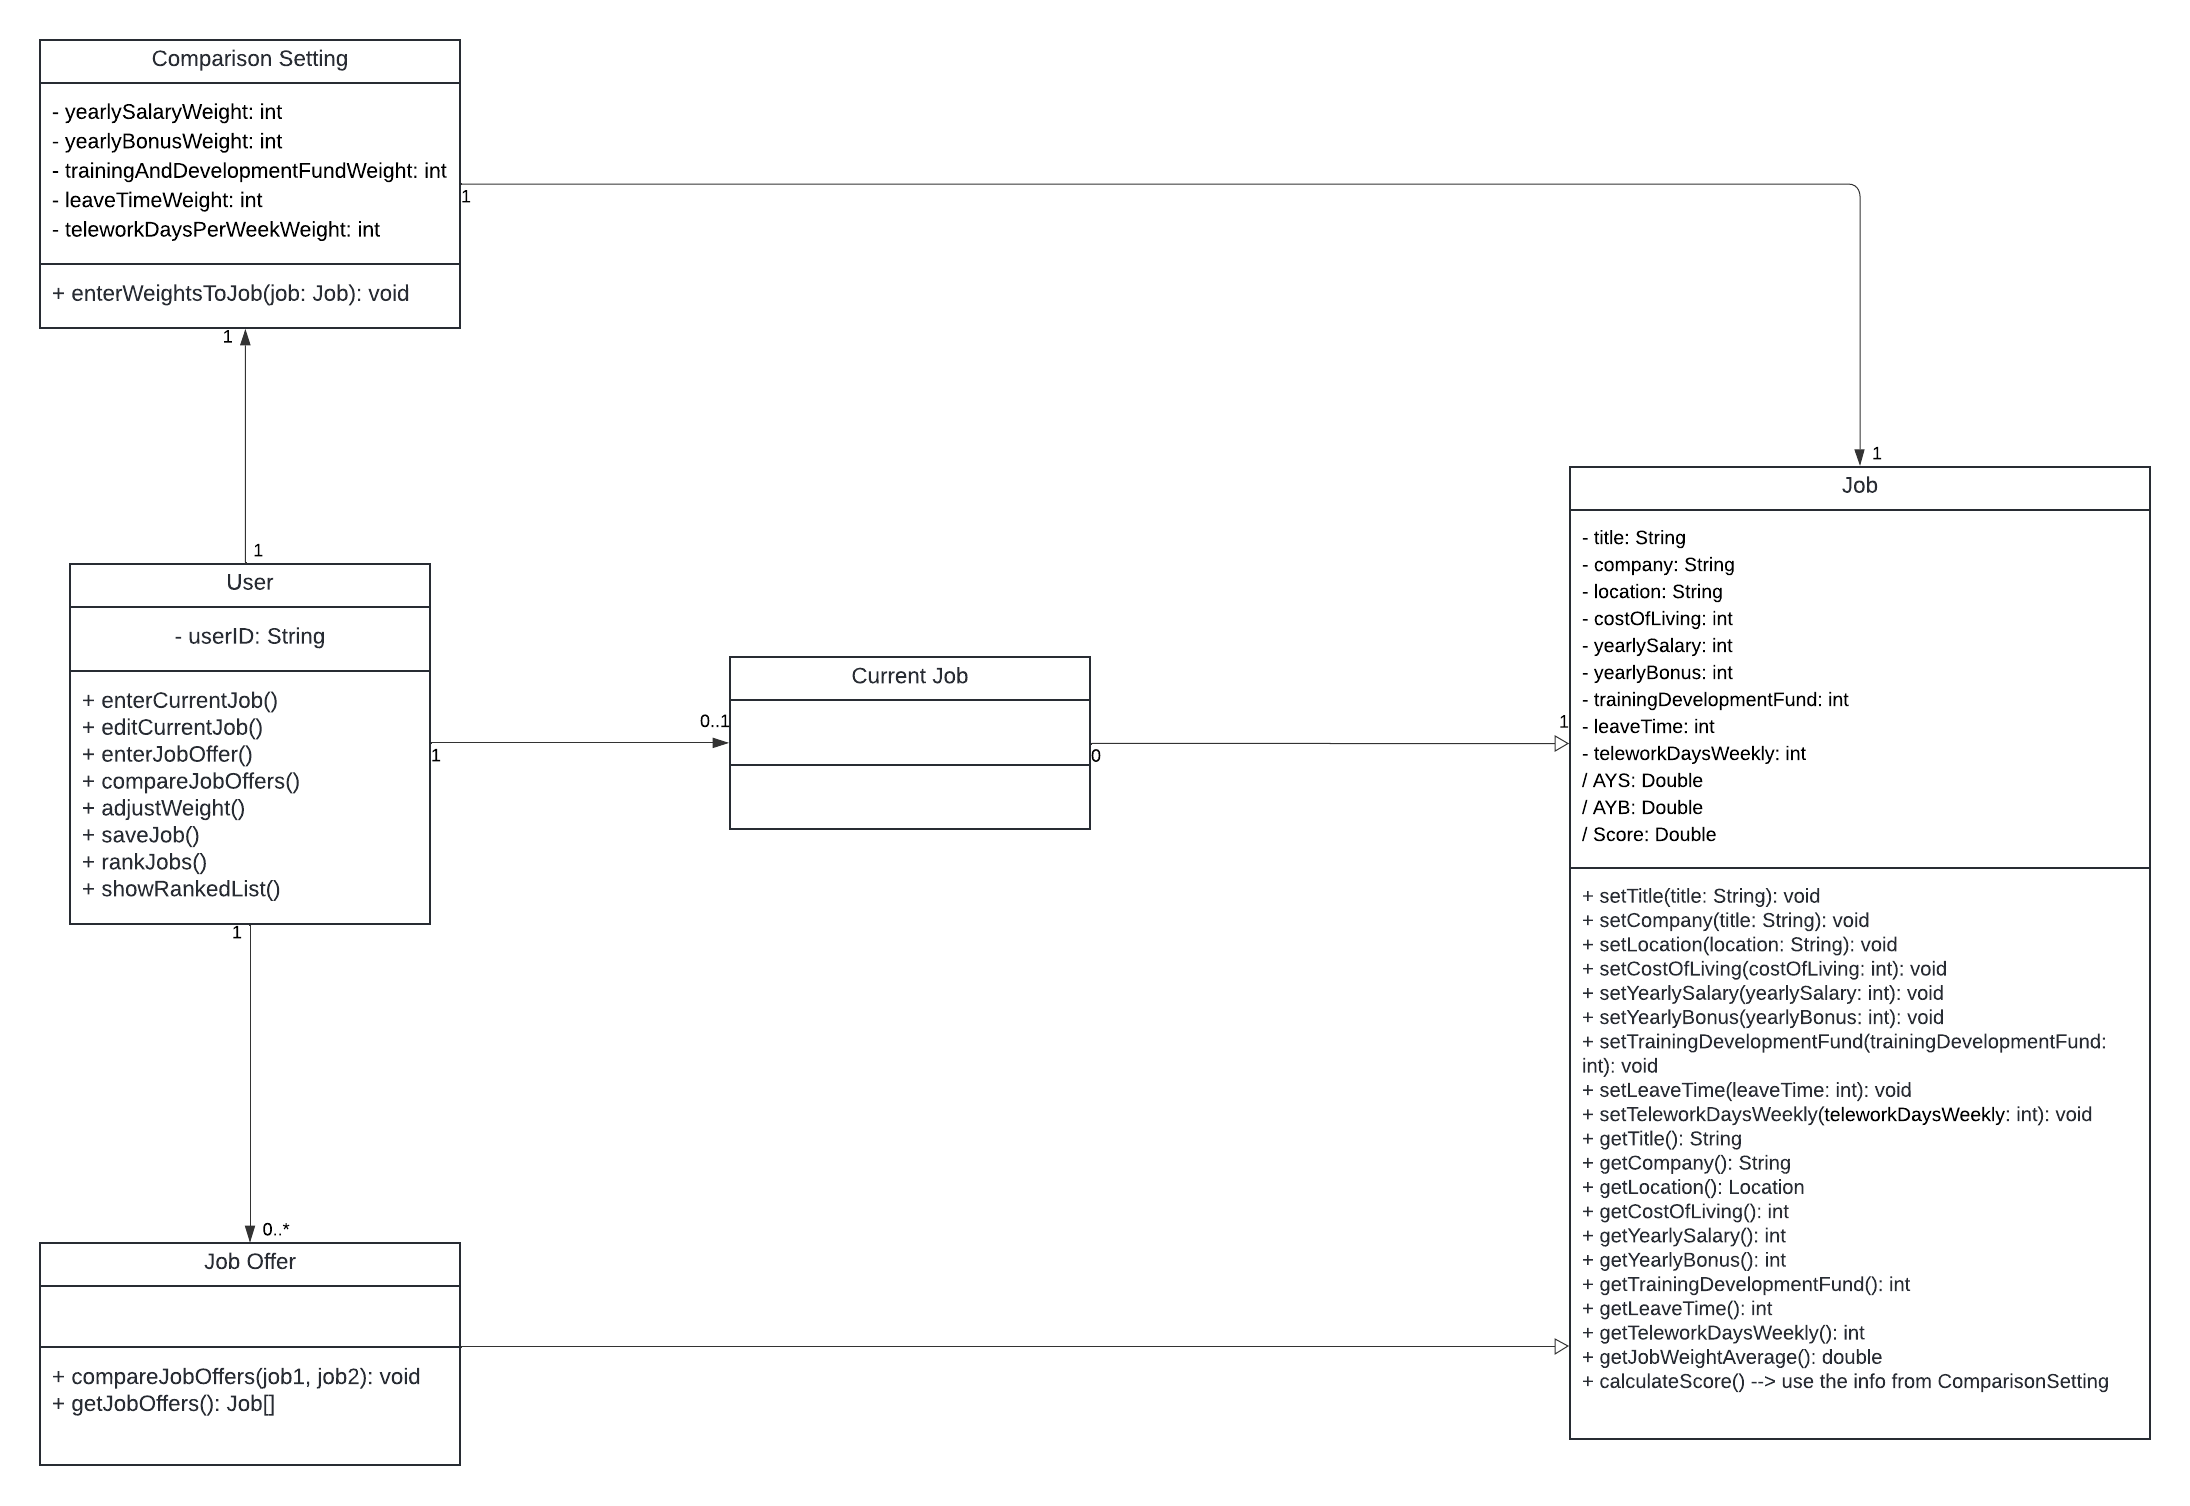
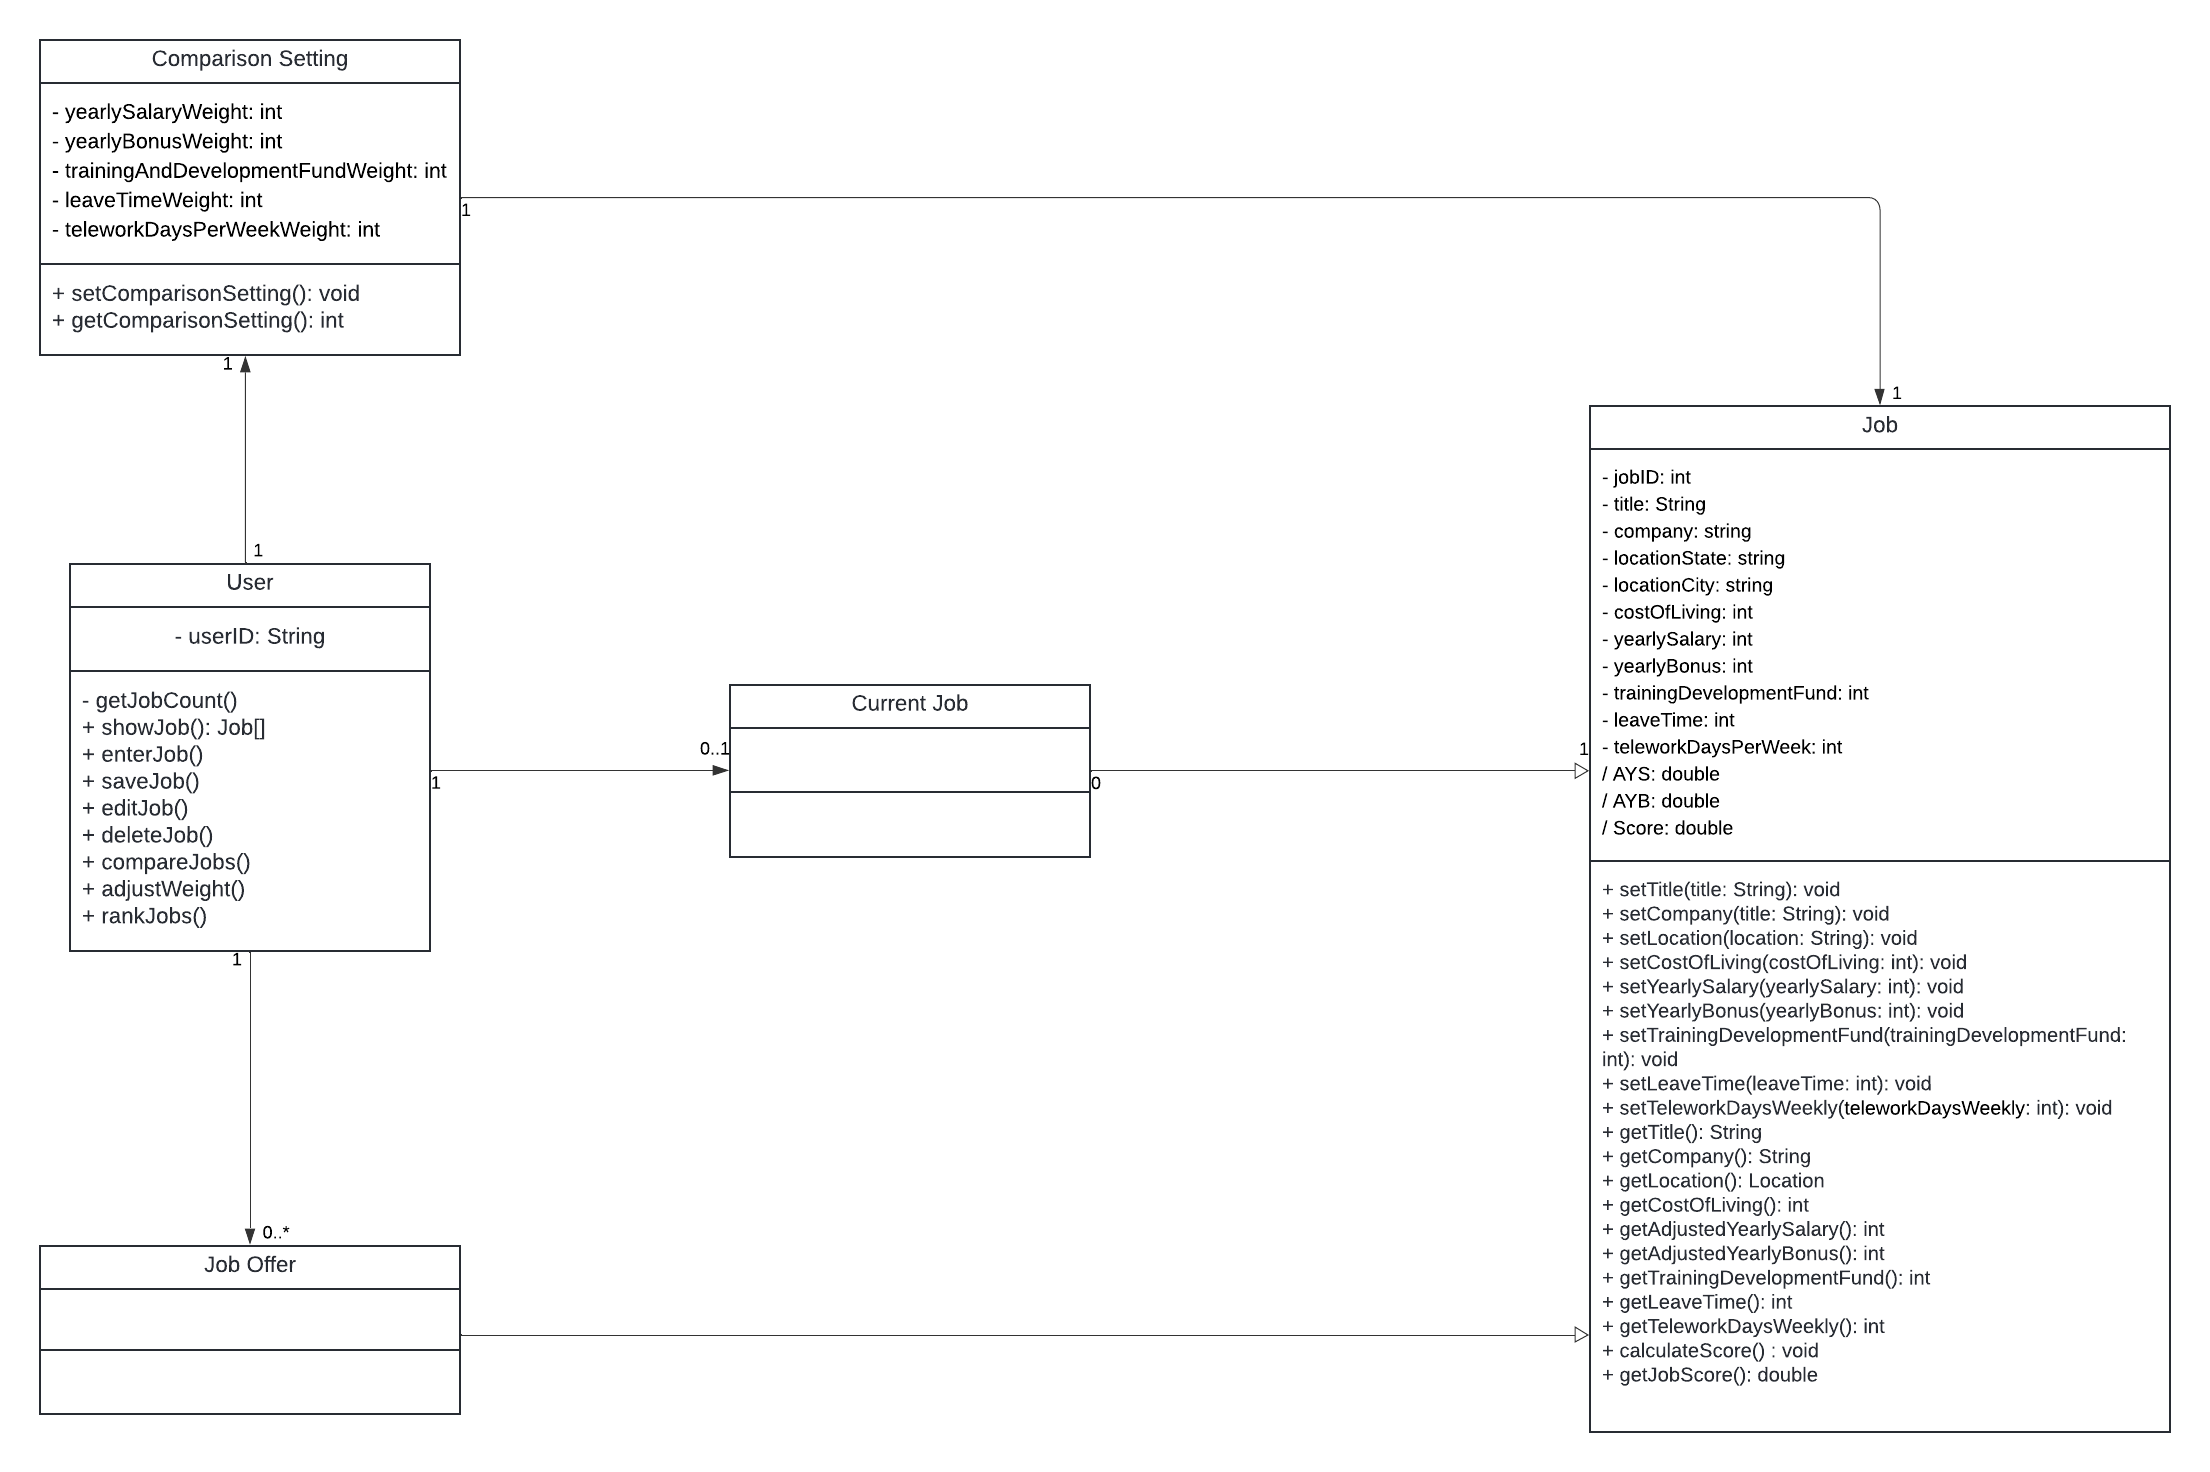
ycui d1 contribution - second push

diff --git a/GroupProject/Design-Team/design-description.md b/GroupProject/Design-Team/design-description.md
@@ -1,0 +1,171 @@
+# Design Description 
+### Team 047 | Summer 2024
+
+1. When the app is started, the user is presented with the main menu, 
+which allows the user to 
+(1) enter or edit current job details, 
+(2) enter job offers, 
+(3) adjust the comparison settings, or 
+(4) compare job offers (disabled if no job offers were entered yet).
+- >&emsp;To realize this requirement, we added class **User** and an automatically generated private attribute userID;
+  >&emsp;Then, to control whether to enable (4), function getJobCount() is added to class **User**, 
+  > If the job count >= 2, the UI will ****enable user to compare job offers. \
+  >&emsp;The actual button enable/disable is handled through GUI implementation. 
+
+
+2. When choosing to **enter current job details**, a user will:\
+- Be shown a user interface to enter (if it is the first time) or edit all the details of their current job, which consists of:\
+   \Title, \
+   \Company, \
+   \Location (entered as city and state), \
+   \Cost of living in the location (expressed as an index), \
+   \Yearly bonus, \
+   \Training and Development Fund, \
+   \Leave Time,\
+   \Telework Days per Week
+- >&emsp;To handle this requirement, we further defined two classes: the **User** class and the **Job** class; and the **Job** class has two subclasses: currentJob and jobOffer.
+  The user class has attributes, methods and relationships about the user while the job class has attributes, methods and relationships of a given job. They are defined below:
+
+- > ### 1. User
+    > **Attributes:**
+    > - `userID` (int): The unique identifier for the user.
+    > 
+    > **Methods:**
+    > - `getJobCount()`: Allows the GUI to know the total of current job and job offer(s).
+    > - `showJob`: Allows the user to examine the existing job based on jobID.
+    > - `enterJob()`: Allows the user to enter current job or job offer.
+    > - `saveJob()`: Allows the user to save the job that is currently being entered.
+    > - `editJob()`: Allows the user to edit their existing current job or job offer.
+    > - `deleteJob()`: Allows the user to delete their existing current job or job offer.
+    > - `compareJobs()`: Allows the user to compares two jobs that picked from the given list of job.
+    > - `adjustWeight()`: Allows the user to adjust comparison parameters (default = 1, more details in the latter part)
+    > - `rankJobs()`: Allows the user to rank all jobs (current job and job offer(s)) based on their scores, descending.
+    > 
+    > **Relationships:**
+    >   - A `User` may have 0 to one `currentJob`.
+    >   - A `User` may have 0 to many `jobOffer`.
+
+
+- > ### 2. Job
+    > **Attributes:**
+    > - `jobId` (Int): The unique identifier of the job.
+    > - `title` (String): The title of the job.
+    > - `company` (String): The name of the company offering the job.
+    > - `locationState` (String): The working state of the job.
+    > - `locationCity` (String): The working city of the job.
+    > - `costOfLiving` (Int): The cost of living in the location of the job.
+    > - `yearlySalary` (Double): The annual salary offered for the job.
+    > - `yearlyBonus` (Double): The annual bonus offered for the job.
+    > - `trainingDevelopmentFund` (Double): The amount of money allocated to Training and Development Benefits provided with the job.
+    > - `leaveTime` (Int): The number of leave days allocated every year of the job.
+    > - `teleworkDaysPerWeek` (Int): The number of days per week assigned for telework in the job.
+    > - `AYS` (Double): Derived variable. The number of yearly Salary Adjusted for cost of living.
+    > - `AYB` (Double): Derived variable. The number of early Bonus Adjusted for cost of living. 
+    > - `Score` (Double): Derived variable. The number of weighted scores based on default or user entered comparison parameter.
+    > 
+    > **Methods:**
+    > - `setTitle()`: Enter the job title. 
+    > - `setCompany()`: Enter the job company.
+    > - `setLocation()`: Enter the state and city strings of the job.
+    > - `setCostOfLiving()`: Enter the index of cost of living for the job location.
+    > - `setYearlySalary()`: Enter the amount of yearly salary as integer.
+    > - `setYearlyBonus()`: Enter the amount of yearly bonus as integer.
+    > - `setTrainingDevelopmentFund()`: Enter the amount of training and development fund as integer.
+    > - `setLeaveTime()`: Enter the leave time per year as integer.
+    > - `setTeleworkDaysWeekly()`: Enter the number of permitted telework day per week.
+    > - 
+    > - `getTitle()`: Get the job title.
+    > - `getCompany()`: Get the job company.
+    > - `getLocation()`: Get the state and city strings of the job.
+    > - `getCostOfLiving()`: Get the index of cost of living for the job location.
+    > - `getAdjustedYearlySalary()`: Get the amount of adjusted (by the cost of living) yearly salary.
+    > - `getAdjustedYearlyBonus()`: Get the amount of adjusted (by the cost of living) yearly bonus.
+    > - `getTrainingDevelopmentFund()`: Get the amount of training and development fund.
+    > - `getLeaveTime()`: Get the leave time per year.
+    > - `getTeleworkDaysWeekly()`: Get the number of permitted telework day per week.
+    > - 
+    > - `calculateScore()`: Calculate job score based on comparison parameters.
+    > - `getJobScore()`: Get the calculated job score. 
+
+    >**Subtypes:**
+    > - currentJob
+    > - jobOffer
+
+- Be able to either save the job details or cancel and exit without saving, returning in both cases to the main menu.
+- >&emsp;Realize this requirement by adding saveJob() operations to **User** class. 
+  > Action of save/cancel and returning to main menu is handled via GUI.
+
+
+3. When choosing to **enter job offers**, a user will:
+- Be shown a user interface to enter all the details of the offer, which are the same ones listed above for the current job.
+- Be able to either save the job offer details or cancel.
+- Be able to (1) enter another offer, (2) return to the main menu, or (3) compare the offer (if they saved it) with the current job details (if present).
+- > &emsp;For the parts involving showing a User Interface, this document does not cover that since it will be implemented in the UI implementation. \
+  > &emsp;We use the **Job** class above to handle the details of the job, 
+  > and use functions enterJob(), editJob(), deleteJob(), and saveJob() in **User** class to handle to action of the job
+
+4. When **adjusting the comparison settings**, the user can assign integer weights to:\
+   \Yearly salary\
+   \Yearly bonus\
+   \Training and Development Fund\
+   \Leave Time\
+   \Telework Days per Week\
+- If no weights are assigned, all factors are considered equal.
+- NOTE: These factors should be integer-based from 0 (no interest/don’t care) to 9 (highest interest)
+- >&emsp;For this relationship we defined a **comparisonSetting** class with different attributes, methods and relationships 
+  > that allows the user to assign weights to the settings as shown below:
+  > 
+  > ### 3. Comparison Setting
+  > **Attributes:**
+    > - `yearlySalaryWeight` (Int): The weight assigned to the yearly salary. Default = 1.
+    > - `yearlyBonusWeight` (Int): The weight assigned to the yearly bonus. Default = 1.
+    > - `trainingAndDevFundWeight` (Int): The weight assigned to the training and development fund. Default = 1.
+    > - `leaveTimeWeight` (Int): The weight assigned to the leave time. Default = 1.
+    > - `teleworkDaysPerWeekWeight` (Int): The weight assigned to the telework days per week. Default = 1.
+    > 
+    > **Methods:**
+    > - `saveComparisonSetting()`: Set or update and save the comparison settings.
+    > - `getComparisonSetting()`: Retrieve the current comparison settings.
+    > 
+    > **Relationships:**
+    > - A `ComparisonSetting` is associated with one `User`.
+
+5. When choosing to **compare job offers**, a user will:
+- Be shown a list of job offers, displayed as Title and Company, ranked from best to worst (see below for details), and including the current job (if present), clearly indicated.
+- >&emsp;Display of list and indication of current job will be handled via GUI. The job score computation will be handled by calculateScore() from class **Job**, 
+  > and the ranking will be handled by rankJobs() in class **User**.
+- Select two jobs to compare and trigger the comparison.
+- >&emsp;Display will be implemented via GUI. To handle the comparison requirement, we will use compareJobs() from class **User** 
+- Be shown a table comparing the two jobs, displaying, for each job:\
+   \Title\
+   \Company\
+   \Location\
+   \Yearly salary adjusted for cost of living\
+   \Yearly bonus adjusted for cost of living\
+   \TDF = Training and Development Fund\
+   \LT = Leave Time\
+   \RWT = Telework Days per Week\
+- >&emsp;The series of display will be handled by functions getTitle(), getCompany(), getLocation(), getCostOfLiving(),
+  > getAdjustedYearlySalary(), getAdjustedYearlyBonus(), getTrainingDevelopmentFund(), getLeaveTime(), and getTeleworkDaysWeekly() 
+  > from class **Job**.
+
+- Be offered to perform another comparison or go back to the main menu.
+- >&emsp;This requirement will be handled through GUI implementation.
+  
+6. When ranking jobs, a job’s score is computed as the weighted average of:
+- AYS + AYB + TDF + (LT * AYS / 260) - ((260 - 52 * RWT) * (AYS / 260) / 8))
+
+  where:\
+  \AYS = Yearly Salary Adjusted for cost of living\
+  \AYB = Yearly Bonus Adjusted for cost of living\
+  \TDF = Training and Development Fund  ($0 to $18000 inclusive annually)\
+  \LT = Leave Time  (0-100 whole number days inclusive)\
+  \RWT = Telework Days per Week
+  > &emsp;The job score computation will be handled by calculateScore() from class **Job**.
+  
+7. The user interface must be intuitive and responsive.
+- >&emsp;This requirement is outside the scope of the UML design. The UI being intuitive and responsive can only be done in the User Interface.
+8. For simplicity, you may assume there is a single system running the app (no communication or saving between devices is necessary).
+- >&emsp;This requirement is outside the scope of the UML design. "All activities will remain in this app" is noted. 
+
+  

diff --git a/GroupProject/Design-Team/design-discussion.md b/GroupProject/Design-Team/design-discussion.md
@@ -34,11 +34,22 @@
   - Job Offer could be a subclass of Job to inherit Job’s attributes.
   - Missing derived variables
 
-  
 ## Team Design
 ### Design display
 ![team-design.png](images/team-design.png)
 ### Design discussion
+The initial draft of team design was developed during team meetings. Compared to Design #1, the team design removed the 
+**jobOperation** class, and added the calculated score as derived variable for the **Job** class. 
+Compared to Design #2, the team design removed the **MainMenu** class as the displaying through UI is preferred in actual development. 
+We retained the subclass structure mentioned in Design#1 and #2 to reflect the different relationships between the user 
+and current job/ future job offers, and to ensure the "compare job" is enabled when feasible. 
+The absence of subclass in design #3 and #4 are the main shortage of those individual design and the main difference between them and the team design.
+Additionally, both design #3 and #4 did not include derived variables for jobs.
 
+The team also chose to add more detailed functions than individual designs to class **Job** to better handle the requirements.
+Adding those variables to the team design will make the implementation phase more efficient. 
 
 ## Summary
+The team design is a culmination of the individual designs. We combined the advantages of each design, 
+discussed the shortage of individual designs, while keeping the final output concise and comprehensive. 
+As the project move forward, the team may adjust the design slightly to reflect the new/missing requirements.
